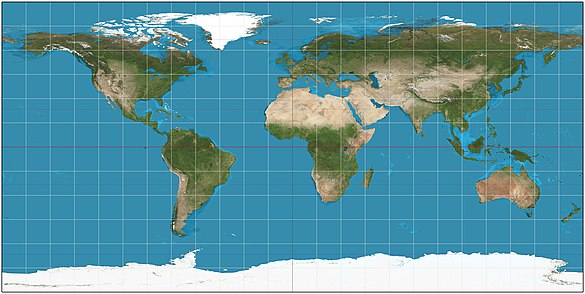
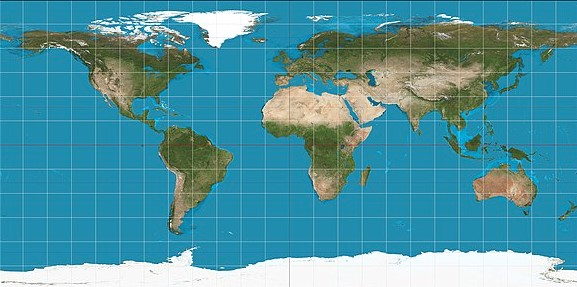
added rotations and set a star seed to be const

diff --git a/main.py b/main.py
@@ -108,30 +108,29 @@ class PyGlobe:
  
     ######################################################################################
     
-    def caculate_position_and_orientation(self,date,orbit_radius,obliquity,name):
+    def calculate_position_and_orientation(self,date,hour,orbit_radius,obliquity,orbit_duration_days):
         """
         calculates the orbital position of a body given a date
         """
 
-        if name=='Moon':
-            #currently centered around earth
-           
-            day = date.split('/')[0]
-            
-            # to be made correct 
-            angluar_orbital_position = (float(day)/28)*np.pi*2
+        #currently centered around earth
+        
+        day = int(date.split('/')[0])
+        
+        # to be made correct 
+        angluar_orbital_position = (float(day+(hour/24.))/orbit_duration_days)*np.pi*2
 
-            # to be made correct should always face earth
-            obliquity = obliquity
+        # to be made correct should always face earth
+        obliquity = obliquity
 
-            #to be made elliptical
-            orbit_radius=orbit_radius
+        #to be made elliptical
+        orbit_radius=orbit_radius
 
-            return orbit_radius,obliquity,angluar_orbital_position
+        return orbit_radius,obliquity,angluar_orbital_position
 
     ######################################################################################
 
-    def spherical_body(self,ax,date,name,image_file,body_radius,obliquity,orbit_radius,orbital_inclination):
+    def spherical_body(self,ax,date,hour,name,image_file,body_radius,obliquity,orbit_radius,orbital_inclination,rotation_duration_hrs,orbit_duration_days):
         """
         generates a rendered spherical body
         """
@@ -141,7 +140,14 @@ class PyGlobe:
 
         # define a grid matching the map size, subsample along with pixel    
         theta = np.linspace(0, np.pi, img.shape[0])
-        phi   = np.linspace(0, 2*np.pi, img.shape[1])
+        if name == 'Earth':
+            rot   = float(2*np.pi*hour/rotation_duration_hrs)
+
+        if name == 'Moon':
+            day = int(date.split('/')[0])
+            rot   = float(2*np.pi*(int(day)*24+hour)/rotation_duration_hrs)
+
+        phi   = np.linspace(0+rot, 2*np.pi+rot, img.shape[1])
 
         count = 180 # keep 180 points along theta and phi
 
@@ -163,7 +169,7 @@ class PyGlobe:
         
 
         if orbit_radius != 0:
-            orbit_radius,obliquity,angluar_orbital_position=self.caculate_position_and_orientation(date,orbit_radius,obliquity,name)
+            orbit_radius,obliquity,angluar_orbital_position=self.calculate_position_and_orientation(date,hour,orbit_radius,obliquity,orbit_duration_days)
             self.plot_orbit(ax,'grey',orbit_radius,orbital_inclination)
             #orbital position
             x,y,z = self.cartesian_transformation_radial(x,y,z,orbit_radius,orbital_inclination,angluar_orbital_position)
@@ -178,6 +184,8 @@ class PyGlobe:
         """
         plots random stars in foreground and background
         """
+
+        random.seed(1)
         
         ax.set_facecolor('black')
         
@@ -227,7 +235,7 @@ class PyGlobe:
 
     ######################################################################################
 
-    def plot(self,date):       
+    def plot(self,date,hour,coord_selector,show):       
         """
         plots eath moon system given a date eg 01/01/2000
         """
@@ -235,7 +243,7 @@ class PyGlobe:
         if date=='live':
             date=(self.get_live_time().split(' ')[-1])
 
-        print(date)
+        print('{}:00 {}'.format(hour,date))
 
         fig = plt.figure('Globe '+ date)
         ax = fig.add_subplot(111, projection='3d')
@@ -264,51 +272,68 @@ class PyGlobe:
         ######################################################################################
         # Earth
 
-        name                = 'Earth'
-        img                 = 'surfaces/earth.jpg'
-        body_radius         = 6378 #km
-        radial_position     = 0 #km
-        obliquity           = 23.5 #degs
-        orbital_inclination = 0 #degs
-        self.spherical_body(ax,date,name,img,body_radius,obliquity,radial_position,orbital_inclination)
+        name                  = 'Earth'
+        img                   = 'surfaces/earth.jpg'
+        body_radius           = 6378 #km
+        radial_position       = 0 #km
+        obliquity             = 23.5 #degs
+        orbital_inclination   = 0 #degs
+        rotation_duration_hrs = 24
+        orbit_duration_days   = 0
+        self.spherical_body(ax,date,hour,name,img,body_radius,obliquity,radial_position,orbital_inclination,rotation_duration_hrs,orbit_duration_days)
 
         ######################################################################################
         # Moon
 
-        name                = 'Moon'
-        img                 = 'surfaces/moon.jpg'
-        body_radius         = 1737.5 #km
-        radial_position     = 12000 #km (should be 384000)
-        obliquity           = -6.7 #degs
-        orbital_inclination = 5 #degs
-        self.spherical_body(ax,date,name,img,body_radius,obliquity,radial_position,orbital_inclination)
+        name                  = 'Moon'
+        img                   = 'surfaces/moon.jpg'
+        body_radius           = 1737.5 #km
+        radial_position       = 12000 #km (should be 384000)
+        obliquity             = -6.7 #degs
+        orbital_inclination   = 5 #degs
+        rotation_duration_hrs = 28*24
+        orbit_duration_days   = 28
+        self.spherical_body(ax,date,hour,name,img,body_radius,obliquity,radial_position,orbital_inclination,rotation_duration_hrs,orbit_duration_days)
 
         ######################################################################################
 
-        self.coordinate_selector(ax,0,0) #currently on renders behind a sphere
+        if coord_selector != None:
+            self.coordinate_selector(ax,0,0) #currently on renders behind a sphere
 
         MPL_Prefs(fig,ax,'','no_grid')
 
-        #uncomment when making photos for a gif
-        # plt.savefig('Images/progression/{}.png'.format(date.replace('/','-')))
-        # print(' - Image saved')
-        plt.show()
+        if show != None:
+            plt.show()
 
 ################################################################################
 # End of class
 ################################################################################
-
-#generate 28 pictures
 
 def make_gif():
     """
     generates screenshots of the program across a 28 days and then compiles them into a gif
     """
     g = PyGlobe()
-    for day in range(1,28):
-        date = "{}/08/2020".format(day)
-        g.plot(date)
 
+    # every day date in a 28 cycle in 1 day incriments
+    for day in range(1,28,1):
+        date = "{}/08/2020".format(day)
+
+        # every hour in 6 hour incriments
+        for hour in range(0,24,4):
+            g.plot(date,hour,None,None)
+
+            if len(str(hour)) == 1:
+                hour = str('0{}'.format(hour))
+
+            if len(str(day)) == 1:
+                date = "0{}/08/2020".format(day)
+
+            filename = 'Images/progression/{}_{}-00.png'.format(date.replace('/','-'),hour)
+            plt.savefig(filename)
+            print(' - Image saved')
+
+    # convert all saved images to a single gif
     import imageio
     images = []
     for filename in os.listdir('Images/progression/'):
@@ -316,8 +341,9 @@ def make_gif():
     imageio.mimsave('Images/lunar.gif', images)
     print('gif made')
 
+################################################################################
 
-# make_gif()
+make_gif()
 
 g = PyGlobe()
-g.plot('live')
+g.plot('live',hour,'locate','show')
